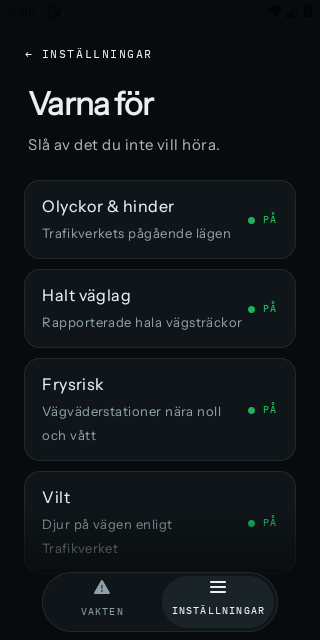
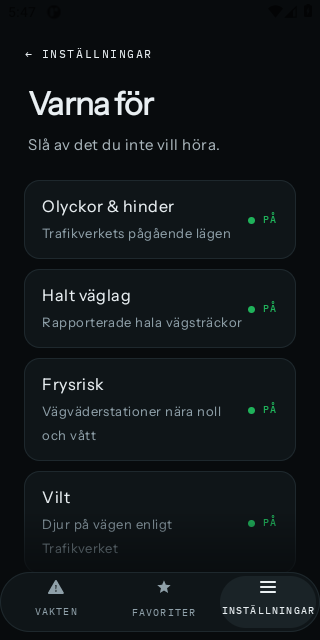
Produktboken: fotostudions bilder ur android 39101497351 (tre flikar, Spara resan? och fliken Favoriter); bokföring av Android-delen
Alla bilder byttes, eftersom flikraden har tre flikar; shot-10 och shot-11 är nya och granskade för hand (frågan på Redo., fliken
med en påhittad sparad resa). Projektkartan, kort #357, STATUS och en fråga till Axel i BED §4.2 om sajtens texter (startsidan,
Om-sidan och integritetspolicyn i karta-repot).

diff --git a/docs/PROJEKTKARTAN.html b/docs/PROJEKTKARTAN.html
@@ -185,7 +185,7 @@
   </section>
   <section class="takt" aria-label="Takten de senaste 7 dygnen">
     <h2 id="takten">Takten: de senaste 7 dygnen</h2>
-    <p><b>64 steg klara</b> 11/10 07:30–18/10 07:30: 51 av dem fanns redan på kartan, 13 kom till under perioden. 44 nya steg och 1 nya delar har tillkommit. Procenten gick från 66 till 75 %: den räknar andelen av allt kartan känner, och kartan växer medan vi bygger.</p>
+    <p><b>64 steg klara</b> 11/10 07:42–18/10 07:42: 51 av dem fanns redan på kartan, 13 kom till under perioden. 44 nya steg och 1 nya delar har tillkommit. Procenten gick från 66 till 75 %: den räknar andelen av allt kartan känner, och kartan växer medan vi bygger.</p>
     <div class="tabell"><table>
       <thead><tr><th>Block</th><th class="tal">Klara steg</th><th class="tal">varav nya</th><th class="tal">Nya steg</th><th class="tal">Nya delar</th><th class="tal">Tillbaka</th><th class="tal">Borttagna</th></tr></thead>
       <tbody><tr><td>Favoriterna</td><td class="tal">14</td><td class="tal">1</td><td class="tal">8</td><td class="tal">1</td><td class="tal">–</td><td class="tal">–</td></tr><tr><td>Motorn</td><td class="tal">13</td><td class="tal">–</td><td class="tal">14</td><td class="tal">–</td><td class="tal">–</td><td class="tal">–</td></tr><tr><td>Källorna</td><td class="tal">13</td><td class="tal">6</td><td class="tal">7</td><td class="tal">–</td><td class="tal">–</td><td class="tal">–</td></tr><tr><td>Kuvösen</td><td class="tal">10</td><td class="tal">1</td><td class="tal">6</td><td class="tal">–</td><td class="tal">–</td><td class="tal">–</td></tr><tr><td>Skuggan och prövningen</td><td class="tal">5</td><td class="tal">2</td><td class="tal">3</td><td class="tal">–</td><td class="tal">–</td><td class="tal">–</td></tr><tr><td>Ut till förarna</td><td class="tal">4</td><td class="tal">1</td><td class="tal">4</td><td class="tal">–</td><td class="tal">–</td><td class="tal">–</td></tr><tr><td>Styrningen</td><td class="tal">3</td><td class="tal">1</td><td class="tal">1</td><td class="tal">–</td><td class="tal">–</td><td class="tal">–</td></tr><tr><td>Lägesfilen</td><td class="tal">1</td><td class="tal">1</td><td class="tal">1</td><td class="tal">–</td><td class="tal">–</td><td class="tal">–</td></tr><tr><td>Insamling och arkiv</td><td class="tal">1</td><td class="tal">–</td><td class="tal">–</td><td class="tal">–</td><td class="tal">–</td><td class="tal">–</td></tr></tbody></table></div>
@@ -258,7 +258,7 @@
         <ul><li><a href="#del-m-tillstand">L2 tillståndet (skattaren S1–S3)</a>: Villkoret i motorn (S3) <span class="litet">— saknas → klart</span></li><li><a href="#del-m-tillstand">L2 tillståndet (skattaren S1–S3)</a>: Testfall i tre språk (S3) <span class="litet">— saknas → klart</span></li><li><a href="#del-m-efterhalkan">Efterhalkan som märkt beta</a>: Villkoret i motorn (S3) <span class="litet">— saknas → klart</span></li><li><a href="#del-m-efterhalkan">Efterhalkan som märkt beta</a>: Testfall i tre språk (S3) <span class="litet">— saknas → klart</span></li><li><a href="#del-m-efterhalkan">Efterhalkan som märkt beta</a>: I appen <span class="litet">— saknas → pågår</span></li></ul></li><li><span class="mono">11/10 08:51</span> <a class="mono" href="https://github.com/Axelstar/Halkvakt/commit/eb1f402bba63693b03619d740aa1e84f56c7ad93">eb1f402</a> DECISIONS #521: S1-grinden läst; #522: stomdokumenten stäms av en gång per dygn (#870)
         <ul><li><a href="#del-m-tillstand">L2 tillståndet (skattaren S1–S3)</a>: Dom (S1-grinden) <span class="litet">— saknas → pågår</span></li><li><a href="#del-m-efterhalkan">Efterhalkan som märkt beta</a>: Dom (S1-grinden) <span class="litet">— saknas → pågår</span></li></ul></li></ol>
     </details>
-    <p class="litet">Skrivs ur git-historiken för docs/projektkartan.json av scripts/projektkartan.ts, till och med <span class="mono">3e47b62</span>. Ett namnbyte (samma plats i delen) eller en flytt (samma namn till en annan del) i samma commit följer sitt läge; ett steg som skrivs om under nytt namn i en senare commit räknas som borttaget och nytt. Ändras aldrig för hand (DECISIONS #515).</p>
+    <p class="litet">Skrivs ur git-historiken för docs/projektkartan.json av scripts/projektkartan.ts, till och med <span class="mono">afba34b</span>. Ett namnbyte (samma plats i delen) eller en flytt (samma namn till en annan del) i samma commit följer sitt läge; ett steg som skrivs om under nytt namn i en senare commit räknas som borttaget och nytt. Ändras aldrig för hand (DECISIONS #515).</p>
   </section>
   <p class="grov"><b>Mätt mot koden 3/10 (kort #286).</b> Alla 82 delar har byggsteg med bevis; procenten räknas ur stegen, viktad med delarnas storlek. Klicka på en del under <i>Alla delar</i> för att se stegen.</p>
   <section class="vantar" aria-label="Vad som väntar på vem">
@@ -922,11 +922,11 @@
   </details>
   <details class="del" id="del-f-fliken">
     <summary><span class="del-namn">Fliken och rapporten</span><span class="chip orange">Delvis</span><span class="del-pct">63 %</span></summary>
-    <dl class="rad"><dt>Klart</dt><dd>63 %, räknat ur byggstegen</dd><dt>Byggsteg</dt><dd><ul class="steglista"><li class="s-klar"><span class="s-ikon" aria-hidden="true"></span><span><b>Underlag och skärmar</b> <span class="litet">klart</span><span class="s-bevis">FAVORITER.html §2 och §3, skärmarna ritade i appens skinn</span></span></li><li class="s-klar"><span class="s-ikon" aria-hidden="true"></span><span><b>Beslut om formen</b> <span class="litet">klart</span><span class="s-bevis">Bengt 17/10: egen flik, högst fem rutter, version ett utan tider (DECISIONS #616)</span></span></li><li class="s-pagar"><span class="s-ikon" aria-hidden="true"></span><span><b>Byggt i appen</b> <span class="litet">pågår</span><span class="s-bevis">Steg 2 på iPhone 09a6ed3: fliken Favoriter i enkel form (brytaren, högst fem resor, Ta bort och Ta bort alla), tre flikar i flikraden; lägena och rapporten (steg 3) och Android saknas</span></span></li><li class="s-saknas"><span class="s-ikon" aria-hidden="true"></span><span><b>Prov</b> <span class="litet">saknas</span></span></li></ul></dd><dt>Vikt</dt><dd>3 av 3</dd><dt>Saknas</dt><dd><ul><li>Fliken och rapportskärmen i båda apparna</li><li>Texterna i produktboken, introduktionen och integritetssidan</li></ul></dd><dt>Beror på</dt><dd><a class="ref orange" href="#del-f-rapportfil">Rapportfilen på servern</a>, <a class="ref gron" href="#del-f-ruttfilter">Jämförelsen mot rutten i Swift och Kotlin</a>, <a class="ref orange" href="#del-f-spara">Spara en rutt</a>, <a class="ref orange" href="#del-a-ios">iPhone-appen</a>, <a class="ref orange" href="#del-a-android">Android-appen</a></dd><dt>Levererar till</dt><dd><a class="ref orange" href="#del-f-tider">Tider, påminnelse eller notis</a></dd><dt>Kort</dt><dd><ul><li>#357 ⭐ #357 FAVORITERNA VERSION 1 — FLIKEN, RAPPORTEN OCH SPARADE RUTTER I BÅDA APPARNA (BESTÄLLT 17/10 — … <span class="litet">· Claude</span></li></ul></dd><dt>Beskrivs i</dt><dd><ul><li><a href="https://claude.ai/artifact/EJYcQFCyKYd9BgGcYkCMyT#avsnitt-2">Halkvaktens favoriter §2 Fliken Favoriter</a></li><li><a href="https://claude.ai/artifact/EJYcQFCyKYd9BgGcYkCMyT#avsnitt-3">Halkvaktens favoriter §3 Rapporten</a></li><li><a href="https://claude.ai/artifact/EJYcQFCyKYd9BgGcYkCMyT#avsnitt-12">Halkvaktens favoriter §12 Läget och loggen</a></li></ul></dd></dl>
+    <dl class="rad"><dt>Klart</dt><dd>63 %, räknat ur byggstegen</dd><dt>Byggsteg</dt><dd><ul class="steglista"><li class="s-klar"><span class="s-ikon" aria-hidden="true"></span><span><b>Underlag och skärmar</b> <span class="litet">klart</span><span class="s-bevis">FAVORITER.html §2 och §3, skärmarna ritade i appens skinn</span></span></li><li class="s-klar"><span class="s-ikon" aria-hidden="true"></span><span><b>Beslut om formen</b> <span class="litet">klart</span><span class="s-bevis">Bengt 17/10: egen flik, högst fem rutter, version ett utan tider (DECISIONS #616)</span></span></li><li class="s-pagar"><span class="s-ikon" aria-hidden="true"></span><span><b>Byggt i appen</b> <span class="litet">pågår</span><span class="s-bevis">Steg 2 på iPhone 09a6ed3: fliken Favoriter i enkel form (brytaren, högst fem resor, Ta bort och Ta bort alla), tre flikar i flikraden; Android afba34b (PR #1063) likadant; lägena och rapporten (steg 3) saknas</span></span></li><li class="s-saknas"><span class="s-ikon" aria-hidden="true"></span><span><b>Prov</b> <span class="litet">saknas</span></span></li></ul></dd><dt>Vikt</dt><dd>3 av 3</dd><dt>Saknas</dt><dd><ul><li>Fliken och rapportskärmen i båda apparna</li><li>Texterna i produktboken, introduktionen och integritetssidan</li></ul></dd><dt>Beror på</dt><dd><a class="ref orange" href="#del-f-rapportfil">Rapportfilen på servern</a>, <a class="ref gron" href="#del-f-ruttfilter">Jämförelsen mot rutten i Swift och Kotlin</a>, <a class="ref orange" href="#del-f-spara">Spara en rutt</a>, <a class="ref orange" href="#del-a-ios">iPhone-appen</a>, <a class="ref orange" href="#del-a-android">Android-appen</a></dd><dt>Levererar till</dt><dd><a class="ref orange" href="#del-f-tider">Tider, påminnelse eller notis</a></dd><dt>Kort</dt><dd><ul><li>#357 ⭐ #357 FAVORITERNA VERSION 1 — FLIKEN, RAPPORTEN OCH SPARADE RUTTER I BÅDA APPARNA (BESTÄLLT 17/10 — … <span class="litet">· Claude</span></li></ul></dd><dt>Beskrivs i</dt><dd><ul><li><a href="https://claude.ai/artifact/EJYcQFCyKYd9BgGcYkCMyT#avsnitt-2">Halkvaktens favoriter §2 Fliken Favoriter</a></li><li><a href="https://claude.ai/artifact/EJYcQFCyKYd9BgGcYkCMyT#avsnitt-3">Halkvaktens favoriter §3 Rapporten</a></li><li><a href="https://claude.ai/artifact/EJYcQFCyKYd9BgGcYkCMyT#avsnitt-12">Halkvaktens favoriter §12 Läget och loggen</a></li></ul></dd></dl>
   </details>
   <details class="del" id="del-f-spara">
     <summary><span class="del-namn">Spara en rutt</span><span class="chip orange">Delvis</span><span class="del-pct">70 %</span></summary>
-    <dl class="rad"><dt>Klart</dt><dd>70 %, räknat ur byggstegen</dd><dt>Byggsteg</dt><dd><ul class="steglista"><li class="s-klar"><span class="s-ikon" aria-hidden="true"></span><span><b>Underlag</b> <span class="litet">klart</span><span class="s-bevis">FAVORITER.html §6: sju byggsteg och vad det kostar i löftet; kort #285</span></span></li><li class="s-klar"><span class="s-ikon" aria-hidden="true"></span><span><b>Beslut</b> <span class="litet">klart</span><span class="s-bevis">Bengt 17/10: körda vägar sparas med brytaren av från början; ingen karta bakom linjen (DECISIONS #616)</span></span></li><li class="s-pagar"><span class="s-ikon" aria-hidden="true"></span><span><b>Motorn i tre språk</b> <span class="litet">pågår</span><span class="s-bevis">a46d80f på grenen claude/favoriter-steg2-motorn: insamlingen (en punkt per 75 m, sista fixen alltid med), listan med högst fem och namnförslagen (DECISIONS #625) i engine/src/rutter.ts, Rutter.swift och Rutter.kt, prövade mot det delade facit engine/fixtures/rutter.json (sex fall); kontraktsgrinden vaktar 75 och 5; fyra motprov fällda; väntar på ci, ios-engine och android och sammanslagningen</span></span></li><li class="s-pagar"><span class="s-ikon" aria-hidden="true"></span><span><b>Byggt i appen</b> <span class="litet">pågår</span><span class="s-bevis">iPhone 09a6ed3 (PR, kort #357): brytaren i fliken Favoriter, insamlingen i GuardManager, den tillfälliga filen, frågan på Redo. och de sparade rutterna i Application Support med isExcludedFromBackup tillbakaläst (Favoriter.swift); Android saknas</span></span></li><li class="s-pagar"><span class="s-ikon" aria-hidden="true"></span><span><b>Prov</b> <span class="litet">pågår</span><span class="s-bevis">Ruttspärren scripts/rutterspar.ts i ci: ingen fil som når nätet rör rutterna, ruttfilerna utanför säkerhetskopian, inga rutter i UserDefaults, inga koordinater i loggen; självtest och fyra motprov fällda. Att flaggan sätts på en telefon läses tillbaka i koden men prövas inte av ci (iPhone-appen har inget testmål)</span></span></li></ul></dd><dt>Vikt</dt><dd>2 av 3</dd><dt>Saknas</dt><dd><ul><li>Brytaren Erbjud att spara resor</li><li>Insamlingen under resan och den tillfälliga filen</li><li>En egen fil utanför säkerhetskopiorna</li><li>Radering, prov och texter</li><li>Frågan efter resan som egen rad (Efter resan visas bara i betan)</li></ul></dd><dt>Beror på</dt><dd><a class="ref orange" href="#del-a-ios">iPhone-appen</a>, <a class="ref orange" href="#del-a-android">Android-appen</a></dd><dt>Levererar till</dt><dd><a class="ref orange" href="#del-f-fliken">Fliken och rapporten</a></dd><dt>Kort</dt><dd><ul><li>#285 iCLOUD-KOPIAN BÄR UNGEFÄR VAR OCH NÄR <span class="litet">· Claude, låst</span></li><li>#357 ⭐ #357 FAVORITERNA VERSION 1 — FLIKEN, RAPPORTEN OCH SPARADE RUTTER I BÅDA APPARNA (BESTÄLLT 17/10 — … <span class="litet">· Claude</span></li></ul></dd><dt>Beskrivs i</dt><dd><ul><li><a href="https://claude.ai/artifact/EJYcQFCyKYd9BgGcYkCMyT#avsnitt-6">Halkvaktens favoriter §6 Spara en rutt</a></li><li><a href="https://claude.ai/artifact/EJYcQFCyKYd9BgGcYkCMyT#avsnitt-12">Halkvaktens favoriter §12 Läget och loggen</a></li></ul></dd></dl>
+    <dl class="rad"><dt>Klart</dt><dd>70 %, räknat ur byggstegen</dd><dt>Byggsteg</dt><dd><ul class="steglista"><li class="s-klar"><span class="s-ikon" aria-hidden="true"></span><span><b>Underlag</b> <span class="litet">klart</span><span class="s-bevis">FAVORITER.html §6: sju byggsteg och vad det kostar i löftet; kort #285</span></span></li><li class="s-klar"><span class="s-ikon" aria-hidden="true"></span><span><b>Beslut</b> <span class="litet">klart</span><span class="s-bevis">Bengt 17/10: körda vägar sparas med brytaren av från början; ingen karta bakom linjen (DECISIONS #616)</span></span></li><li class="s-pagar"><span class="s-ikon" aria-hidden="true"></span><span><b>Motorn i tre språk</b> <span class="litet">pågår</span><span class="s-bevis">a46d80f på grenen claude/favoriter-steg2-motorn: insamlingen (en punkt per 75 m, sista fixen alltid med), listan med högst fem och namnförslagen (DECISIONS #625) i engine/src/rutter.ts, Rutter.swift och Rutter.kt, prövade mot det delade facit engine/fixtures/rutter.json (sex fall); kontraktsgrinden vaktar 75 och 5; fyra motprov fällda; väntar på ci, ios-engine och android och sammanslagningen</span></span></li><li class="s-pagar"><span class="s-ikon" aria-hidden="true"></span><span><b>Byggt i appen</b> <span class="litet">pågår</span><span class="s-bevis">iPhone 09a6ed3 (PR, kort #357): brytaren i fliken Favoriter, insamlingen i GuardManager, den tillfälliga filen, frågan på Redo. och de sparade rutterna i Application Support med isExcludedFromBackup tillbakaläst (Favoriter.swift); Android afba34b (PR #1063): RuttLager i noBackupFilesDir, data_extraction_rules.xml mot flytten till en ny telefon, GuardService, frågan på Redo.; JVM-provet FavoriterTest</span></span></li><li class="s-pagar"><span class="s-ikon" aria-hidden="true"></span><span><b>Prov</b> <span class="litet">pågår</span><span class="s-bevis">Ruttspärren scripts/rutterspar.ts i ci: ingen fil som når nätet rör rutterna, ruttfilerna utanför säkerhetskopian, inga rutter i UserDefaults, inga koordinater i loggen; självtest och fyra motprov fällda. Android: ruttspärrens regel 6 (manifestet och flyttregeln) och FavoriterTest, åtta fall mot en tillfällig katalog. Att flaggan sätts på en telefon läses tillbaka i koden men prövas inte av ci (iPhone-appen har inget testmål)</span></span></li></ul></dd><dt>Vikt</dt><dd>2 av 3</dd><dt>Saknas</dt><dd><ul><li>Brytaren Erbjud att spara resor</li><li>Insamlingen under resan och den tillfälliga filen</li><li>En egen fil utanför säkerhetskopiorna</li><li>Radering, prov och texter</li><li>Frågan efter resan som egen rad (Efter resan visas bara i betan)</li></ul></dd><dt>Beror på</dt><dd><a class="ref orange" href="#del-a-ios">iPhone-appen</a>, <a class="ref orange" href="#del-a-android">Android-appen</a></dd><dt>Levererar till</dt><dd><a class="ref orange" href="#del-f-fliken">Fliken och rapporten</a></dd><dt>Kort</dt><dd><ul><li>#285 iCLOUD-KOPIAN BÄR UNGEFÄR VAR OCH NÄR <span class="litet">· Claude, låst</span></li><li>#357 ⭐ #357 FAVORITERNA VERSION 1 — FLIKEN, RAPPORTEN OCH SPARADE RUTTER I BÅDA APPARNA (BESTÄLLT 17/10 — … <span class="litet">· Claude</span></li></ul></dd><dt>Beskrivs i</dt><dd><ul><li><a href="https://claude.ai/artifact/EJYcQFCyKYd9BgGcYkCMyT#avsnitt-6">Halkvaktens favoriter §6 Spara en rutt</a></li><li><a href="https://claude.ai/artifact/EJYcQFCyKYd9BgGcYkCMyT#avsnitt-12">Halkvaktens favoriter §12 Läget och loggen</a></li></ul></dd></dl>
   </details>
   <details class="del" id="del-f-tider">
     <summary><span class="del-namn">Tider, påminnelse eller notis</span><span class="chip orange">Delvis</span><span class="del-pct">50 %</span></summary>

diff --git a/docs/FAVORITER.html b/docs/FAVORITER.html
@@ -313,7 +313,7 @@
     <ul style="margin: 4px 0 8px; padding-left: 1.6em; display: grid; gap: 2px; font-size: 13px; list-style: none">
       <li><span aria-hidden="true">✓</span> <b>Underlag och skärmar</b> <span style="color: var(--dampad, #4A5763)">klart · FAVORITER.html §2 och §3, skärmarna ritade i appens skinn</span></li>
       <li><span aria-hidden="true">✓</span> <b>Beslut om formen</b> <span style="color: var(--dampad, #4A5763)">klart · Bengt 17/10: egen flik, högst fem rutter, version ett utan tider (DECISIONS #616)</span></li>
-      <li><span aria-hidden="true">◐</span> <b>Byggt i appen</b> <span style="color: var(--dampad, #4A5763)">pågår · Steg 2 på iPhone 09a6ed3: fliken Favoriter i enkel form (brytaren, högst fem resor, Ta bort och Ta bort alla), tre flikar i flikraden; lägena och rapporten (steg 3) och Android saknas</span></li>
+      <li><span aria-hidden="true">◐</span> <b>Byggt i appen</b> <span style="color: var(--dampad, #4A5763)">pågår · Steg 2 på iPhone 09a6ed3: fliken Favoriter i enkel form (brytaren, högst fem resor, Ta bort och Ta bort alla), tre flikar i flikraden; Android afba34b (PR #1063) likadant; lägena och rapporten (steg 3) saknas</span></li>
       <li><span aria-hidden="true">○</span> <b>Prov</b> <span style="color: var(--dampad, #4A5763)">saknas</span></li>
     </ul>
   </details>
@@ -340,7 +340,7 @@
     <ul style="margin: 4px 0 8px; padding-left: 1.6em; display: grid; gap: 2px; font-size: 13px; list-style: none">
       <li><span aria-hidden="true">✓</span> <b>Underlag och skärmar</b> <span style="color: var(--dampad, #4A5763)">klart · FAVORITER.html §2 och §3, skärmarna ritade i appens skinn</span></li>
       <li><span aria-hidden="true">✓</span> <b>Beslut om formen</b> <span style="color: var(--dampad, #4A5763)">klart · Bengt 17/10: egen flik, högst fem rutter, version ett utan tider (DECISIONS #616)</span></li>
-      <li><span aria-hidden="true">◐</span> <b>Byggt i appen</b> <span style="color: var(--dampad, #4A5763)">pågår · Steg 2 på iPhone 09a6ed3: fliken Favoriter i enkel form (brytaren, högst fem resor, Ta bort och Ta bort alla), tre flikar i flikraden; lägena och rapporten (steg 3) och Android saknas</span></li>
+      <li><span aria-hidden="true">◐</span> <b>Byggt i appen</b> <span style="color: var(--dampad, #4A5763)">pågår · Steg 2 på iPhone 09a6ed3: fliken Favoriter i enkel form (brytaren, högst fem resor, Ta bort och Ta bort alla), tre flikar i flikraden; Android afba34b (PR #1063) likadant; lägena och rapporten (steg 3) saknas</span></li>
       <li><span aria-hidden="true">○</span> <b>Prov</b> <span style="color: var(--dampad, #4A5763)">saknas</span></li>
     </ul>
   </details>
@@ -499,8 +499,8 @@
       <li><span aria-hidden="true">✓</span> <b>Underlag</b> <span style="color: var(--dampad, #4A5763)">klart · FAVORITER.html §6: sju byggsteg och vad det kostar i löftet; kort #285</span></li>
       <li><span aria-hidden="true">✓</span> <b>Beslut</b> <span style="color: var(--dampad, #4A5763)">klart · Bengt 17/10: körda vägar sparas med brytaren av från början; ingen karta bakom linjen (DECISIONS #616)</span></li>
       <li><span aria-hidden="true">◐</span> <b>Motorn i tre språk</b> <span style="color: var(--dampad, #4A5763)">pågår · a46d80f på grenen claude/favoriter-steg2-motorn: insamlingen (en punkt per 75 m, sista fixen alltid med), listan med högst fem och namnförslagen (DECISIONS #625) i engine/src/rutter.ts, Rutter.swift och Rutter.kt, prövade mot det delade facit engine/fixtures/rutter.json (sex fall); kontraktsgrinden vaktar 75 och 5; fyra motprov fällda; väntar på ci, ios-engine och android och sammanslagningen</span></li>
-      <li><span aria-hidden="true">◐</span> <b>Byggt i appen</b> <span style="color: var(--dampad, #4A5763)">pågår · iPhone 09a6ed3 (PR, kort #357): brytaren i fliken Favoriter, insamlingen i GuardManager, den tillfälliga filen, frågan på Redo. och de sparade rutterna i Application Support med isExcludedFromBackup tillbakaläst (Favoriter.swift); Android saknas</span></li>
-      <li><span aria-hidden="true">◐</span> <b>Prov</b> <span style="color: var(--dampad, #4A5763)">pågår · Ruttspärren scripts/rutterspar.ts i ci: ingen fil som når nätet rör rutterna, ruttfilerna utanför säkerhetskopian, inga rutter i UserDefaults, inga koordinater i loggen; självtest och fyra motprov fällda. Att flaggan sätts på en telefon läses tillbaka i koden men prövas inte av ci (iPhone-appen har inget testmål)</span></li>
+      <li><span aria-hidden="true">◐</span> <b>Byggt i appen</b> <span style="color: var(--dampad, #4A5763)">pågår · iPhone 09a6ed3 (PR, kort #357): brytaren i fliken Favoriter, insamlingen i GuardManager, den tillfälliga filen, frågan på Redo. och de sparade rutterna i Application Support med isExcludedFromBackup tillbakaläst (Favoriter.swift); Android afba34b (PR #1063): RuttLager i noBackupFilesDir, data_extraction_rules.xml mot flytten till en ny telefon, GuardService, frågan på Redo.; JVM-provet FavoriterTest</span></li>
+      <li><span aria-hidden="true">◐</span> <b>Prov</b> <span style="color: var(--dampad, #4A5763)">pågår · Ruttspärren scripts/rutterspar.ts i ci: ingen fil som når nätet rör rutterna, ruttfilerna utanför säkerhetskopian, inga rutter i UserDefaults, inga koordinater i loggen; självtest och fyra motprov fällda. Android: ruttspärrens regel 6 (manifestet och flyttregeln) och FavoriterTest, åtta fall mot en tillfällig katalog. Att flaggan sätts på en telefon läses tillbaka i koden men prövas inte av ci (iPhone-appen har inget testmål)</span></li>
     </ul>
   </details>
 </div>
@@ -784,7 +784,7 @@
     <ul style="margin: 4px 0 8px; padding-left: 1.6em; display: grid; gap: 2px; font-size: 13px; list-style: none">
       <li><span aria-hidden="true">✓</span> <b>Underlag och skärmar</b> <span style="color: var(--dampad, #4A5763)">klart · FAVORITER.html §2 och §3, skärmarna ritade i appens skinn</span></li>
       <li><span aria-hidden="true">✓</span> <b>Beslut om formen</b> <span style="color: var(--dampad, #4A5763)">klart · Bengt 17/10: egen flik, högst fem rutter, version ett utan tider (DECISIONS #616)</span></li>
-      <li><span aria-hidden="true">◐</span> <b>Byggt i appen</b> <span style="color: var(--dampad, #4A5763)">pågår · Steg 2 på iPhone 09a6ed3: fliken Favoriter i enkel form (brytaren, högst fem resor, Ta bort och Ta bort alla), tre flikar i flikraden; lägena och rapporten (steg 3) och Android saknas</span></li>
+      <li><span aria-hidden="true">◐</span> <b>Byggt i appen</b> <span style="color: var(--dampad, #4A5763)">pågår · Steg 2 på iPhone 09a6ed3: fliken Favoriter i enkel form (brytaren, högst fem resor, Ta bort och Ta bort alla), tre flikar i flikraden; Android afba34b (PR #1063) likadant; lägena och rapporten (steg 3) saknas</span></li>
       <li><span aria-hidden="true">○</span> <b>Prov</b> <span style="color: var(--dampad, #4A5763)">saknas</span></li>
     </ul>
   </details>
@@ -793,8 +793,8 @@
       <li><span aria-hidden="true">✓</span> <b>Underlag</b> <span style="color: var(--dampad, #4A5763)">klart · FAVORITER.html §6: sju byggsteg och vad det kostar i löftet; kort #285</span></li>
       <li><span aria-hidden="true">✓</span> <b>Beslut</b> <span style="color: var(--dampad, #4A5763)">klart · Bengt 17/10: körda vägar sparas med brytaren av från början; ingen karta bakom linjen (DECISIONS #616)</span></li>
       <li><span aria-hidden="true">◐</span> <b>Motorn i tre språk</b> <span style="color: var(--dampad, #4A5763)">pågår · a46d80f på grenen claude/favoriter-steg2-motorn: insamlingen (en punkt per 75 m, sista fixen alltid med), listan med högst fem och namnförslagen (DECISIONS #625) i engine/src/rutter.ts, Rutter.swift och Rutter.kt, prövade mot det delade facit engine/fixtures/rutter.json (sex fall); kontraktsgrinden vaktar 75 och 5; fyra motprov fällda; väntar på ci, ios-engine och android och sammanslagningen</span></li>
-      <li><span aria-hidden="true">◐</span> <b>Byggt i appen</b> <span style="color: var(--dampad, #4A5763)">pågår · iPhone 09a6ed3 (PR, kort #357): brytaren i fliken Favoriter, insamlingen i GuardManager, den tillfälliga filen, frågan på Redo. och de sparade rutterna i Application Support med isExcludedFromBackup tillbakaläst (Favoriter.swift); Android saknas</span></li>
-      <li><span aria-hidden="true">◐</span> <b>Prov</b> <span style="color: var(--dampad, #4A5763)">pågår · Ruttspärren scripts/rutterspar.ts i ci: ingen fil som når nätet rör rutterna, ruttfilerna utanför säkerhetskopian, inga rutter i UserDefaults, inga koordinater i loggen; självtest och fyra motprov fällda. Att flaggan sätts på en telefon läses tillbaka i koden men prövas inte av ci (iPhone-appen har inget testmål)</span></li>
+      <li><span aria-hidden="true">◐</span> <b>Byggt i appen</b> <span style="color: var(--dampad, #4A5763)">pågår · iPhone 09a6ed3 (PR, kort #357): brytaren i fliken Favoriter, insamlingen i GuardManager, den tillfälliga filen, frågan på Redo. och de sparade rutterna i Application Support med isExcludedFromBackup tillbakaläst (Favoriter.swift); Android afba34b (PR #1063): RuttLager i noBackupFilesDir, data_extraction_rules.xml mot flytten till en ny telefon, GuardService, frågan på Redo.; JVM-provet FavoriterTest</span></li>
+      <li><span aria-hidden="true">◐</span> <b>Prov</b> <span style="color: var(--dampad, #4A5763)">pågår · Ruttspärren scripts/rutterspar.ts i ci: ingen fil som når nätet rör rutterna, ruttfilerna utanför säkerhetskopian, inga rutter i UserDefaults, inga koordinater i loggen; självtest och fyra motprov fällda. Android: ruttspärrens regel 6 (manifestet och flyttregeln) och FavoriterTest, åtta fall mot en tillfällig katalog. Att flaggan sätts på en telefon läses tillbaka i koden men prövas inte av ci (iPhone-appen har inget testmål)</span></li>
     </ul>
   </details>
   <details><summary style="cursor: pointer"><span aria-hidden="true" style="display: inline-block; width: 9px; height: 9px; border-radius: 50%; background: var(--gul, #B35C00); margin-right: 6px"></span><a href="https://claude.ai/artifact/Bvo6pfdfhwEGjMxsR7xNc8#del-f-tider">Tider, påminnelse eller notis</a> <span style="color: var(--dampad, #4A5763)">delvis, 50 % · kvar: Version ett först (kort #357)</span></summary>

diff --git a/TAVLA.md b/TAVLA.md
@@ -577,7 +577,7 @@ står här finns inte. Kortregeln ersätter möten: allt som bestäms blir ett k
   **Verify** *(kortgenomgången 3/10, DECISIONS #451)*: appen raderad och installerad om på en iPhone, introduktionen kommer först, och *Visa igen* i Inställningar visar den — bokfört med datum och bygge.
 
 ### Claude — olåst
-- [ ] ⭐ **#357 FAVORITERNA VERSION 1 — FLIKEN, RAPPORTEN OCH SPARADE RUTTER I BÅDA APPARNA (BESTÄLLT 17/10 — Claude, DECISIONS #616, Bengt: *"1. som du rekommenderar och 8 häv inget byggs i appen"*)**: på servern rapportfilen i en egen funktion med manifest och kontrollsumma (#541); i iPhone- och Android-appen brytaren *Erbjud att spara resor* (av från början), insamlingen under resan och den tillfälliga filen, frågan efter resan som egen rad, en egen fil utanför säkerhetskopian (iCloud-flaggan; Android-regeln för flytt), radering, fliken *Favoriter* med högst fem rutter och raderna *Nytt/Inget nytt/Lugnt*, rapportskärmen ur rapportfilen med urvalet längs rutten (RouteFilter, klart), ingen karta bakom linjen; texterna (Om, introduktionen, produktboken med skärmbilder, integritetssidan) och produktregelns rad i CLAUDE.md i samma commit som koden. 9–13 arbetsdagar (FAVORITER §7). Skills före koden: `halkvakt-android`, `swiftui-pro`, `swift-concurrency-pro`. *Verify:* båda apparna sparar en körd rutt och visar dess rapport ur rapportfilen; proven att filen är undantagen från säkerhetskopian och att inget anrop bär rutterna är gröna i ci, ios-engine och android; ett bygge i TestFlight och i Play internt. 🔨 **17/10 steg 1 byggt (DECISIONS #617, Bengt: *"a"*, *"börja med steg 1"*):** funktionen `favoriter` skriver rapportfilen var tionde minut (:x6, `sql/061`) till den publika hinken `favoriter`, med samma frågor och kärna som favoritprovet; vakthunden prövar ålder och sha256. ✅ **I drift 17/10** (deploy 39045608630, migrationen 39045828605, första körningen 15:46 med sha256 som stämmer för båda filerna, vakthunden 16:07 *favoriter 1 min*). Kvar av steg 1: manifestets `byte` i UTF-8 (rättat, väntar på deploy) och hur trafiken mot gratisnivåns 5 GB ska mätas. ✅ **Steg 2:s form (DECISIONS #625, Bengt: *"1 c och 2 a"*):** brytaren i fliken *Favoriter* (fliken enkel redan i steg 2), namnförslagen *Till jobbet*, *Hem* och *Resa 17/10*. 🔨 **18/10 steg 2 på iPhone (09a6ed3):** brytaren *Erbjud att spara resor* i fliken *Favoriter* (av från början), insamlingen under resan, den tillfälliga filen, frågan *Spara resan?* på *Redo.* och listan med *Ta bort* och *Ta bort alla*; filerna i Application Support utanför iCloud-kopian; ruttspärren i ci (`scripts/rutterspar.ts`). Kvar: Android och steg 3 (lägena och rapporten). ✅ **PR #1062 sammanslagen 18/10 (3e47b62); de tre valen står kvar (#633, Bengt: *"ja till 1,2 och 3"*).** 🔨 Android pågår. 🔨 **17/10 steg 2, motordelen:** `engine/src/rutter.ts` med tvillingarna `Rutter.swift` och `Rutter.kt` — insamlingen glesar till en punkt per 75 m och tar alltid med sista fixen, listan rymmer fem och nekar den sjätte, namnförslagen enligt #625; delat facit `engine/fixtures/rutter.json` (`--check` i ci) och kontraktsgrinden på 75 och 5. Kvar: appdelen.
+- [ ] ⭐ **#357 FAVORITERNA VERSION 1 — FLIKEN, RAPPORTEN OCH SPARADE RUTTER I BÅDA APPARNA (BESTÄLLT 17/10 — Claude, DECISIONS #616, Bengt: *"1. som du rekommenderar och 8 häv inget byggs i appen"*)**: på servern rapportfilen i en egen funktion med manifest och kontrollsumma (#541); i iPhone- och Android-appen brytaren *Erbjud att spara resor* (av från början), insamlingen under resan och den tillfälliga filen, frågan efter resan som egen rad, en egen fil utanför säkerhetskopian (iCloud-flaggan; Android-regeln för flytt), radering, fliken *Favoriter* med högst fem rutter och raderna *Nytt/Inget nytt/Lugnt*, rapportskärmen ur rapportfilen med urvalet längs rutten (RouteFilter, klart), ingen karta bakom linjen; texterna (Om, introduktionen, produktboken med skärmbilder, integritetssidan) och produktregelns rad i CLAUDE.md i samma commit som koden. 9–13 arbetsdagar (FAVORITER §7). Skills före koden: `halkvakt-android`, `swiftui-pro`, `swift-concurrency-pro`. *Verify:* båda apparna sparar en körd rutt och visar dess rapport ur rapportfilen; proven att filen är undantagen från säkerhetskopian och att inget anrop bär rutterna är gröna i ci, ios-engine och android; ett bygge i TestFlight och i Play internt. 🔨 **17/10 steg 1 byggt (DECISIONS #617, Bengt: *"a"*, *"börja med steg 1"*):** funktionen `favoriter` skriver rapportfilen var tionde minut (:x6, `sql/061`) till den publika hinken `favoriter`, med samma frågor och kärna som favoritprovet; vakthunden prövar ålder och sha256. ✅ **I drift 17/10** (deploy 39045608630, migrationen 39045828605, första körningen 15:46 med sha256 som stämmer för båda filerna, vakthunden 16:07 *favoriter 1 min*). Kvar av steg 1: manifestets `byte` i UTF-8 (rättat, väntar på deploy) och hur trafiken mot gratisnivåns 5 GB ska mätas. ✅ **Steg 2:s form (DECISIONS #625, Bengt: *"1 c och 2 a"*):** brytaren i fliken *Favoriter* (fliken enkel redan i steg 2), namnförslagen *Till jobbet*, *Hem* och *Resa 17/10*. 🔨 **18/10 steg 2 på iPhone (09a6ed3):** brytaren *Erbjud att spara resor* i fliken *Favoriter* (av från början), insamlingen under resan, den tillfälliga filen, frågan *Spara resan?* på *Redo.* och listan med *Ta bort* och *Ta bort alla*; filerna i Application Support utanför iCloud-kopian; ruttspärren i ci (`scripts/rutterspar.ts`). Kvar: Android och steg 3 (lägena och rapporten). ✅ **PR #1062 sammanslagen 18/10 (3e47b62); de tre valen står kvar (#633, Bengt: *"ja till 1,2 och 3"*).** 🔨 **Android (afba34b, PR #1063):** samma som iPhone; filerna i `noBackupFilesDir`, flyttregeln i `data_extraction_rules.xml`, JVM-provet `FavoriterTest`, ruttspärrens regel 6, fotostudions två nya bilder. Kvar: steg 3 och sajtens texter (Axel, §4.2). 🔨 **17/10 steg 2, motordelen:** `engine/src/rutter.ts` med tvillingarna `Rutter.swift` och `Rutter.kt` — insamlingen glesar till en punkt per 75 m och tar alltid med sista fixen, listan rymmer fem och nekar den sjätte, namnförslagen enligt #625; delat facit `engine/fixtures/rutter.json` (`--check` i ci) och kontraktsgrinden på 75 och 5. Kvar: appdelen.
 - [ ] 📷 **#356 KAMERALARM FÖR KAMEROR PÅ EN ANNAN VÄG — PRÖVA RÖSTEN (BESTÄLLT 17/10 — Claude, DECISIONS #615, Bengt: *"1 nej"*)**: synkprovets 60 körningar 16–17/10 visade sex fartkameror som motorn larmar för varje gång, 144–202 m från rutten på andra vägar (939 och E45 vid E6 Halmstad→Göteborg, 859 två gånger vid E4 Södertälje→Uppsala, 83 och E14 vid E4 Gävle→Sundsvall); Bengt: föraren passerar dem inte. Motorn väljer kamera efter läge och riktning, inte efter väg (`engine.ts` evaluatePoint: 500 m, korridoren och 60°). Prövas: hur många av landets kameror ligger så nära en annan större väg i samma riktning att motorn kan larma för dem, var, och vad en rättning kostar (vägnummer i matchningen, en smalare korridor eller en lista) — mätt mot fältdomen 11/9 att varje verklig kamera varnades 500 m före. *Rösten rörs inte utan Bengts ord efter mätningen och ett prov i bil.* *Verify:* mätningen bokförd med antal och platser, och Bengts beslut i DECISIONS.
 - [ ] 🗞 **#353 LÄNSSIDORNA I SAJTENS RAM, LÄNSTALEN OCH INBÄDDNINGSKORTET FÖR REDAKTIONER (BYGGT 16/10 — Claude, Axels order 16/10 *"vi börjar bygga länen och det för tidningar"* och *"vi bygger innan vi skickar"*; DECISIONS #588)**: Trafikverket varnade 16/10 för halka i sju län (Värmland, Västmanland, Örebro, Södermanland, Uppsala, Dalarna, Gävleborg; Aftonbladet). Länssidorna från 4/10 (kort #281) stod utanför sajtens ram sedan halkvakt.se byggdes om 13/10. **Byggt:** (1) `publish/lanssidor.ts` skriver läns-, väg- och översiktssidan i sajtens ram (`assets/hv.css`, topp, meny, App Store-knapp, fot) med rubriken *Är det halt i X just nu?* och länk till länet på livekartan; (2) `data/lan.json` med talen per län och väg (halt, vägavsnitt, stationer under noll, kallast, olyckor), skriven i samma varv som sidorna; (3) i karta-repot (24aa540): `karta.html?lan=<slug>` zoomar in länet och räknar bara dess vägavsnitt, `widget.html?lan=<slug>` är ett inbäddningskort som läser lan.json, press.html#redaktioner bär inbäddningskoden och citeringsregeln, sitemap.xml och robots.txt pekar på halkvakt.se. Prov: test/lanssidor.test.ts 5 av 5 (lan.json, inga tankstreck, nya titlar), bunten i synk, beroendekartan komplett (apps.apple.com och halkvakt.se deklarerade), kontraktsgrinden grön. **Kvar:** *slå ihop*, deployen av publicera, och mätningen efter. Sedan tipset till Aftonbladet och lokaltidningarna i de sju länen (Axel, marknadschatten). **Verify:** karta-repots commit efter deployen bär `lan/skane/index.html` med `assets/hv.css` i huvudet och `data/lan.json` med 21 län och 6 vägar, manifestets sha lika live.json, och halkvakt.se/widget.html?lan=varmland visar länets tal.
 - [ ] 🗄 **#347 TRENDTABELLERNA OCH RADARN TILL HINKEN — ÄLDRE ÄN 14 DYGN EXPORTERAS OCH RADERAS (BESTÄLLD 15/10 — Claude, Bengts *"kör steg 1 och steg 2 a"*, DECISIONS #569)**: `trend_kandidater` (32 MB), `trend_stigande` (16 MB) och `radar_precip` (13 MB) gallras aldrig och växer ~3–5 MB per dygn mot gratisnivåns 500 MB. Som väderarkivet (#334, #450, #511): export per dygn till hinken `arkiv`, återläsning mot radantalet, radering äldre än 14 dygn; läsarna som går längre bak skriver ut saknade dygn. *Verify:* varje tabells äldsta dygn läst tillbaka ur hinken med samma radantal, raderingen i nattjobbet, och databasens summa som står still i tre dygn. ↪ **Byggt 15/10:** `sql/053` (`arkiv_export_tabell`, `arkiv2_*`, raderingen 03:50), arkivexporten tar tabellerna, vakthunden har en rad och ett larm, integrationsprovet. **Kvar:** *slå ihop*, migrationen, deploy av arkivexporten och vakthunden, sedan Verify (exporten första dygnet, raderingen två nätter). 🔨 **16/10 (DECISIONS #580, Bengt: *"ja till migrationen"*):** databasen 482 MB och +9–10 MB/dygn — `weather_observations` bar 154 000 döda rader (19 %) under autovacuumens tröskel 20 %; `sql/060` sätter 2 % + 1 000 på tabellerna som byts ut; kvar: *slå ihop*, migrationen och mätningen (döda rader under 20 000 inom en timme, högst 2 MB tillväxt på ett dygn). 🔨 **17/10 (DECISIONS #608, Bengt: *"stäng 1022 och ja till att rätta tröskeln"*):** vakthundens exportlarm för tabellerna larmade falskt 00:00–00:40 varje natt (gränsen 3 var antalet tabeller före `sql/057`, nu fem); gränsen är nu antalet tabeller; i drift 17/10 (39009723881 → vakthunden 07:07: *gräns 5*). 🔨 **17/10 #580 steg 2 föll:** +4,2 MB på dygnet mot högst 2; väderobservationerna stod still (275,7 MB), tillväxten i `kandidat_station` och fyra tabeller som aldrig rensas; valet av åtgärd i bedömningen §4.2. 🔨 **17/10 (DECISIONS #618, Bengt: *"1 b och c"* och *"2 välj ii"*):** `sql/062`: kandidatens loggar ett dygn, trendtabellerna och radarn tio dygn; de fyra tabellerna som aldrig rensas (`shadow_log`, `road_condition_history`, `situation_archive`, `smhi_warnings_history`) exporteras utan att raderas (`sql/063`, `arkivexport`). Kvar: *slå ihop*, *migrera* `sql/062` och `sql/063`, deploy av arkivexporten, nattens radering och omläsningen 19/10 (högst 2 MB). ✅ **Nattens radering 18/10 (#618 punkt 1) höll:** nattjobbet 03:50:00 (`halkvakt-arkivradering-tabeller`, succeeded) raderade kandidatens dygn 15–16/10 (`kandidat_skugga` 703 rader, `kandidat_station` 30 160) och trendtabellernas och radarns dygn 3–7/10 (`trend_kandidater` 31 496, `trend_stigande` 10 073, `radar_precip` 8 013), 80 445 rader; kvar oraderade: kandidatens 17/10 och trendtabellernas och radarns 8–10/10, och de fyra tabellerna med 24 exporterade dygn var och ingen radering (DB-knappen *las* 39098265661, 04:46 UTC). Kvar: omläsningen 19/10 och Verify (summan står still i tre dygn).

diff --git a/docs/BEDOMNING-2026-09-15.md b/docs/BEDOMNING-2026-09-15.md
@@ -549,6 +549,7 @@ Fem rader. Inget annat är "nu". **17/9: fyra klara — kvar är N3, nycklarna (
 | ~~**Uppföljningen av facitläsningen (DECISIONS #602–#604).**~~ **Gjord 17/10** (38990118718, DECISIONS #607): bara Våt bekräftas i 12,7 % (lyft 0,35) och bara radarn i 34,5 % (lyft 0,96), så fuktvittnet förklarar hela regelns låga tal. Åtgärderna förklarar det inte inom banden. Diagnos, ingen dom. | Bengt och Axel | — | #232, #607 |
 | ✅ **AVGJORT 16/10 (Bengt: *"slå ihop 1015 och ja till identitetsprovet för mej och Axel"*, DECISIONS #597).** ~~**Den frysta kandidatens identitet i facitläsningen.**~~ Identitetsprovet ersätter summakravet: paren per veck som 13/10 (veck 4: L 80 km) och grind A:s mått inom toleransen; förregistreringen §4 och §9. | Bengt och Axel | — | #232, #597 |
 | ✅ **AVGJORT 16/10 (Bengt: *"ja till soffprovet, med emulatorn hos mej"*, DECISIONS #596).** ~~**Bilprovet kan dröja tills det blir kallt i Skåne — simulera?**~~ Soffprovet på Android-emulatorn hos Bengt ersätter bilprovet i steg 4 (#578) inför App Review; det riktiga bilprovet görs senare i fält. | Bengt | — | #343, #596 |
+| **Sajtens texter om sparade resor (kort #357, 18/10) — Axels publika löfte.** Apparna säger nu att resor kan sparas i telefonen, men karta-repot inte: startsidan *"Spårning — Ingen"*, Om-sidan *"Sparar ni min position? Nej."* och integritetspolicyn (som säger sanningen om vad som skickas men inte nämner sparade resor; FAVORITER §8 kräver det). Förslag: startsidan *"Spårning — Ingen. Sparade resor bara i telefonen"*; Om-sidan *"Nej. Sparar du själv en resa som favorit stannar den i telefonen."*; policyn en mening: *"Slår du på Erbjud att spara resor under Favoriter sparas vägarna du väljer, bara i telefonen och aldrig i en säkerhetskopia. Du tar bort dem där, och de försvinner när du avinstallerar appen."* | Axel (och Bengt) | Ja till förslagen; Claude gör PR:en i karta-repot | #357 |
 | ✅ **AVGJORT 18/10 (Bengt: *"ja till 1,2 och 3"*, DECISIONS #633): alla tre står kvar som byggt, och Android byggs likadant.** ~~Favoriternas steg 2 på iPhone: tre val som Claude gjorde i bygget (kort #357, 18/10).~~ (1) Frågan *Spara resan?* kommer bara efter en resa på **minst 1 km** — annars hade en vakt som startats i en parkering eller burits av en gående gett en fråga. (2) **Sparade resor står kvar** i listan när brytaren slås av; brytaren styr bara om nya resor samlas in, och den som vill bli av med resorna tar bort dem. #625 sade att fliken med brytaren av visar en förklaring och brytaren. (3) **En resa som pågår när appen stängs av iOS går förlorad**: vägen hålls i minnet under resan och skrivs till den tillfälliga filen först när vakten stoppar. | Bengt | Behåll alla tre som byggt; (1) och (2) skrivs in i Android-delen likadant | #357 |
 | ✅ **AVGJORT 17/10 (Bengt: *"1 godta"*, DECISIONS #631): B godtas med den rena passagen 21:28; avvikelsen från 45 min står kvar i beslutet. Kvar i steg 13: betakortet i A och *starta* av båda (C).** ✅ **C 17/10 21:04 UTC (#631):** kandidaten PÅ efter Axels *starta* 19:50:52 och Bengts 21:04:12; lägesfilen bär nyckeln med 4 sträckor, sha stämmer; fria sträckor 45080 och 87010. Kvar: betakortet. ~~Soffprovet 17/10, andra försöket (DECISIONS #628): räcker B med 31 av 45 minuter?~~ A klarat 21:12 på sträcka 87010. B: inget *"Halkvakt tror"* 21:14–21:45, med den passage som kan fälla den (21:28, utanför taket) tyst; telefonen drogs ur efter 31 min. Betakortet i A är inte säkert sett. | Bengt | Godta B med den rena passagen, eller gör om B en annan kväll (45 min) | #343 |
 | **Soffprovet 17/10 och två frågor (DECISIONS #619).** (1) Alla sju sträckor där kandidaten varnade kl. 15 UTC hade också Trafikverkets halka, så kandidaten kunde inte höras någonstans; provet görs om när en fri sträcka finns (skriptet väljer nu bara sådana), och *starta* behövs av Bengt och Axel efter Axels *tysta* 16:27. Är det vanligt att kandidaten bara varnar där Trafikverket redan gör det, är det en fråga för domen. (2) Tre *halka* på 90 s vid en korsning (kort #360): ska samma slags varning på grannsträckor slås ihop, och med vilket tak? Axels förslag: en varning per halkzon med avstånd och längd (*"halka om 500 meter, ungefär 5 km"*), sedan tyst till zonen är slut. ✅ **(2) avgjord 17/10:** form (b), reprisregeln räknar på zonen, och glappet 500 m (DECISIONS #621, #624); i motorn i tre språk med vektorerna v48–v50 (PR #1049), skuggmotorn deployad, kort #360 stängt. **(1) läget:** kandidaten var på 16:39–19:12 UTC (Bengts *starta* 16:39, tryckt av Claude på hans ord, efter Axels *starta* 16:34), med 1–3 sträckor i kartan 17:00–19:00; Axel tryckte *tysta* 19:12 (kandidatbrytaren 39061437666), och brytaren väntar på *starta* av båda. Inget kvitto på ett nytt soffprov i repot. ✅ **Besvarat:** Axel gjorde provet om 21:07–21:45 lokal tid: A klarat, B tyst i 31 av 45 min (DECISIONS #628), och Bengt godtog B (#631). Kvar i steg 13: betakortet (C klar 21:04 UTC, #631). ✅ **Bengt 17/10 kväll: *"2 ja"* (DECISIONS #632):** bygge 29 med halkzonen, och 29 går till App Review; soffprovet på 28 gäller också 29, eftersom inget i kandidatens väg ändrades. ~~Fråga till Bengt: bygge 29 med halkzonen före soffprovet?~~ | Bengt (och Axel för *starta*) | (1) *starta* nu och provet om när skriptet hittar en fri sträcka; (2) läs takten först (#200) | #343, #359, #360 |

diff --git a/STATUS.md b/STATUS.md
@@ -2627,3 +2627,4 @@ svenskt nyckelord med dem kan aldrig träffa. Inte rättat.
 - 18/10 (Claude; Bengt: *"slå ihop 1058"*): PR #1058 sammanslagen (39d3a8a). **0.3.13 (29) uppladdat av TestFlight-flödet 18/10, körning 39098203732 på 39d3a8a (04:45–04:48 UTC): byggnumret höjt i 39d3a8a, ARCHIVE SUCCEEDED, bygget bär 0.3.13 (29), Upload succeeded; ci, ios-engine och android gröna på PR #1058:s huvud 63b76b6 (39073864224, 39073863929, 39073866309)** (DECISIONS #632). **#618 punkt 1 höll:** nattjobbet 03:50:00 (`halkvakt-arkivradering-tabeller`, succeeded) raderade kandidatens dygn 15–16/10 (`kandidat_skugga` 703 rader, `kandidat_station` 30 160) och trendtabellernas och radarns dygn 3–7/10 (`trend_kandidater` 31 496, `trend_stigande` 10 073, `radar_precip` 8 013), 80 445 rader; kvar oraderade: kandidatens 17/10 och trendtabellernas och radarns 8–10/10, och de fyra tabellerna med 24 exporterade dygn var och ingen radering (DB-knappen *las* 39098265661, 04:46 UTC). Punkt 2 läses 19/10.
 - 18/10 (Claude; Bengt: *"ja"* till appdelen, iOS först): **favoriternas steg 2 på iPhone** (09a6ed3) — brytaren i fliken Favoriter, insamlingen, frågan på Redo., listan, filerna utanför iCloud-kopian; ruttspärren i ci med självtest och fyra fällda motprov. Tre val i bygget väntar på Bengt i §4.2. Android är nästa. Kort #357.
 - 18/10 (Claude; Bengt: *"ja till 1,2 och 3"*): PR #1062 sammanslagen (3e47b62). **DECISIONS #633**: tre val i favoriternas steg 2 står kvar (minst 1 km, sparade resor kvar när brytaren slås av, en pågående resa sparas först vid stopp), och Android byggs likadant. Android-delen påbörjad.
+- 18/10 (Claude): **favoriternas steg 2 på Android** (afba34b, PR #1063) — samma som iPhone; filerna i noBackupFilesDir, flyttregeln mot en ny telefon, JVM-provet FavoriterTest, ruttspärrens regel 6, kontraktsgrinden 81, fotostudions två nya bilder; Play-deklarationen rättad (den sa att inget lagras). Sajtens texter är Axels — förslag i §4.2. Kort #357.
